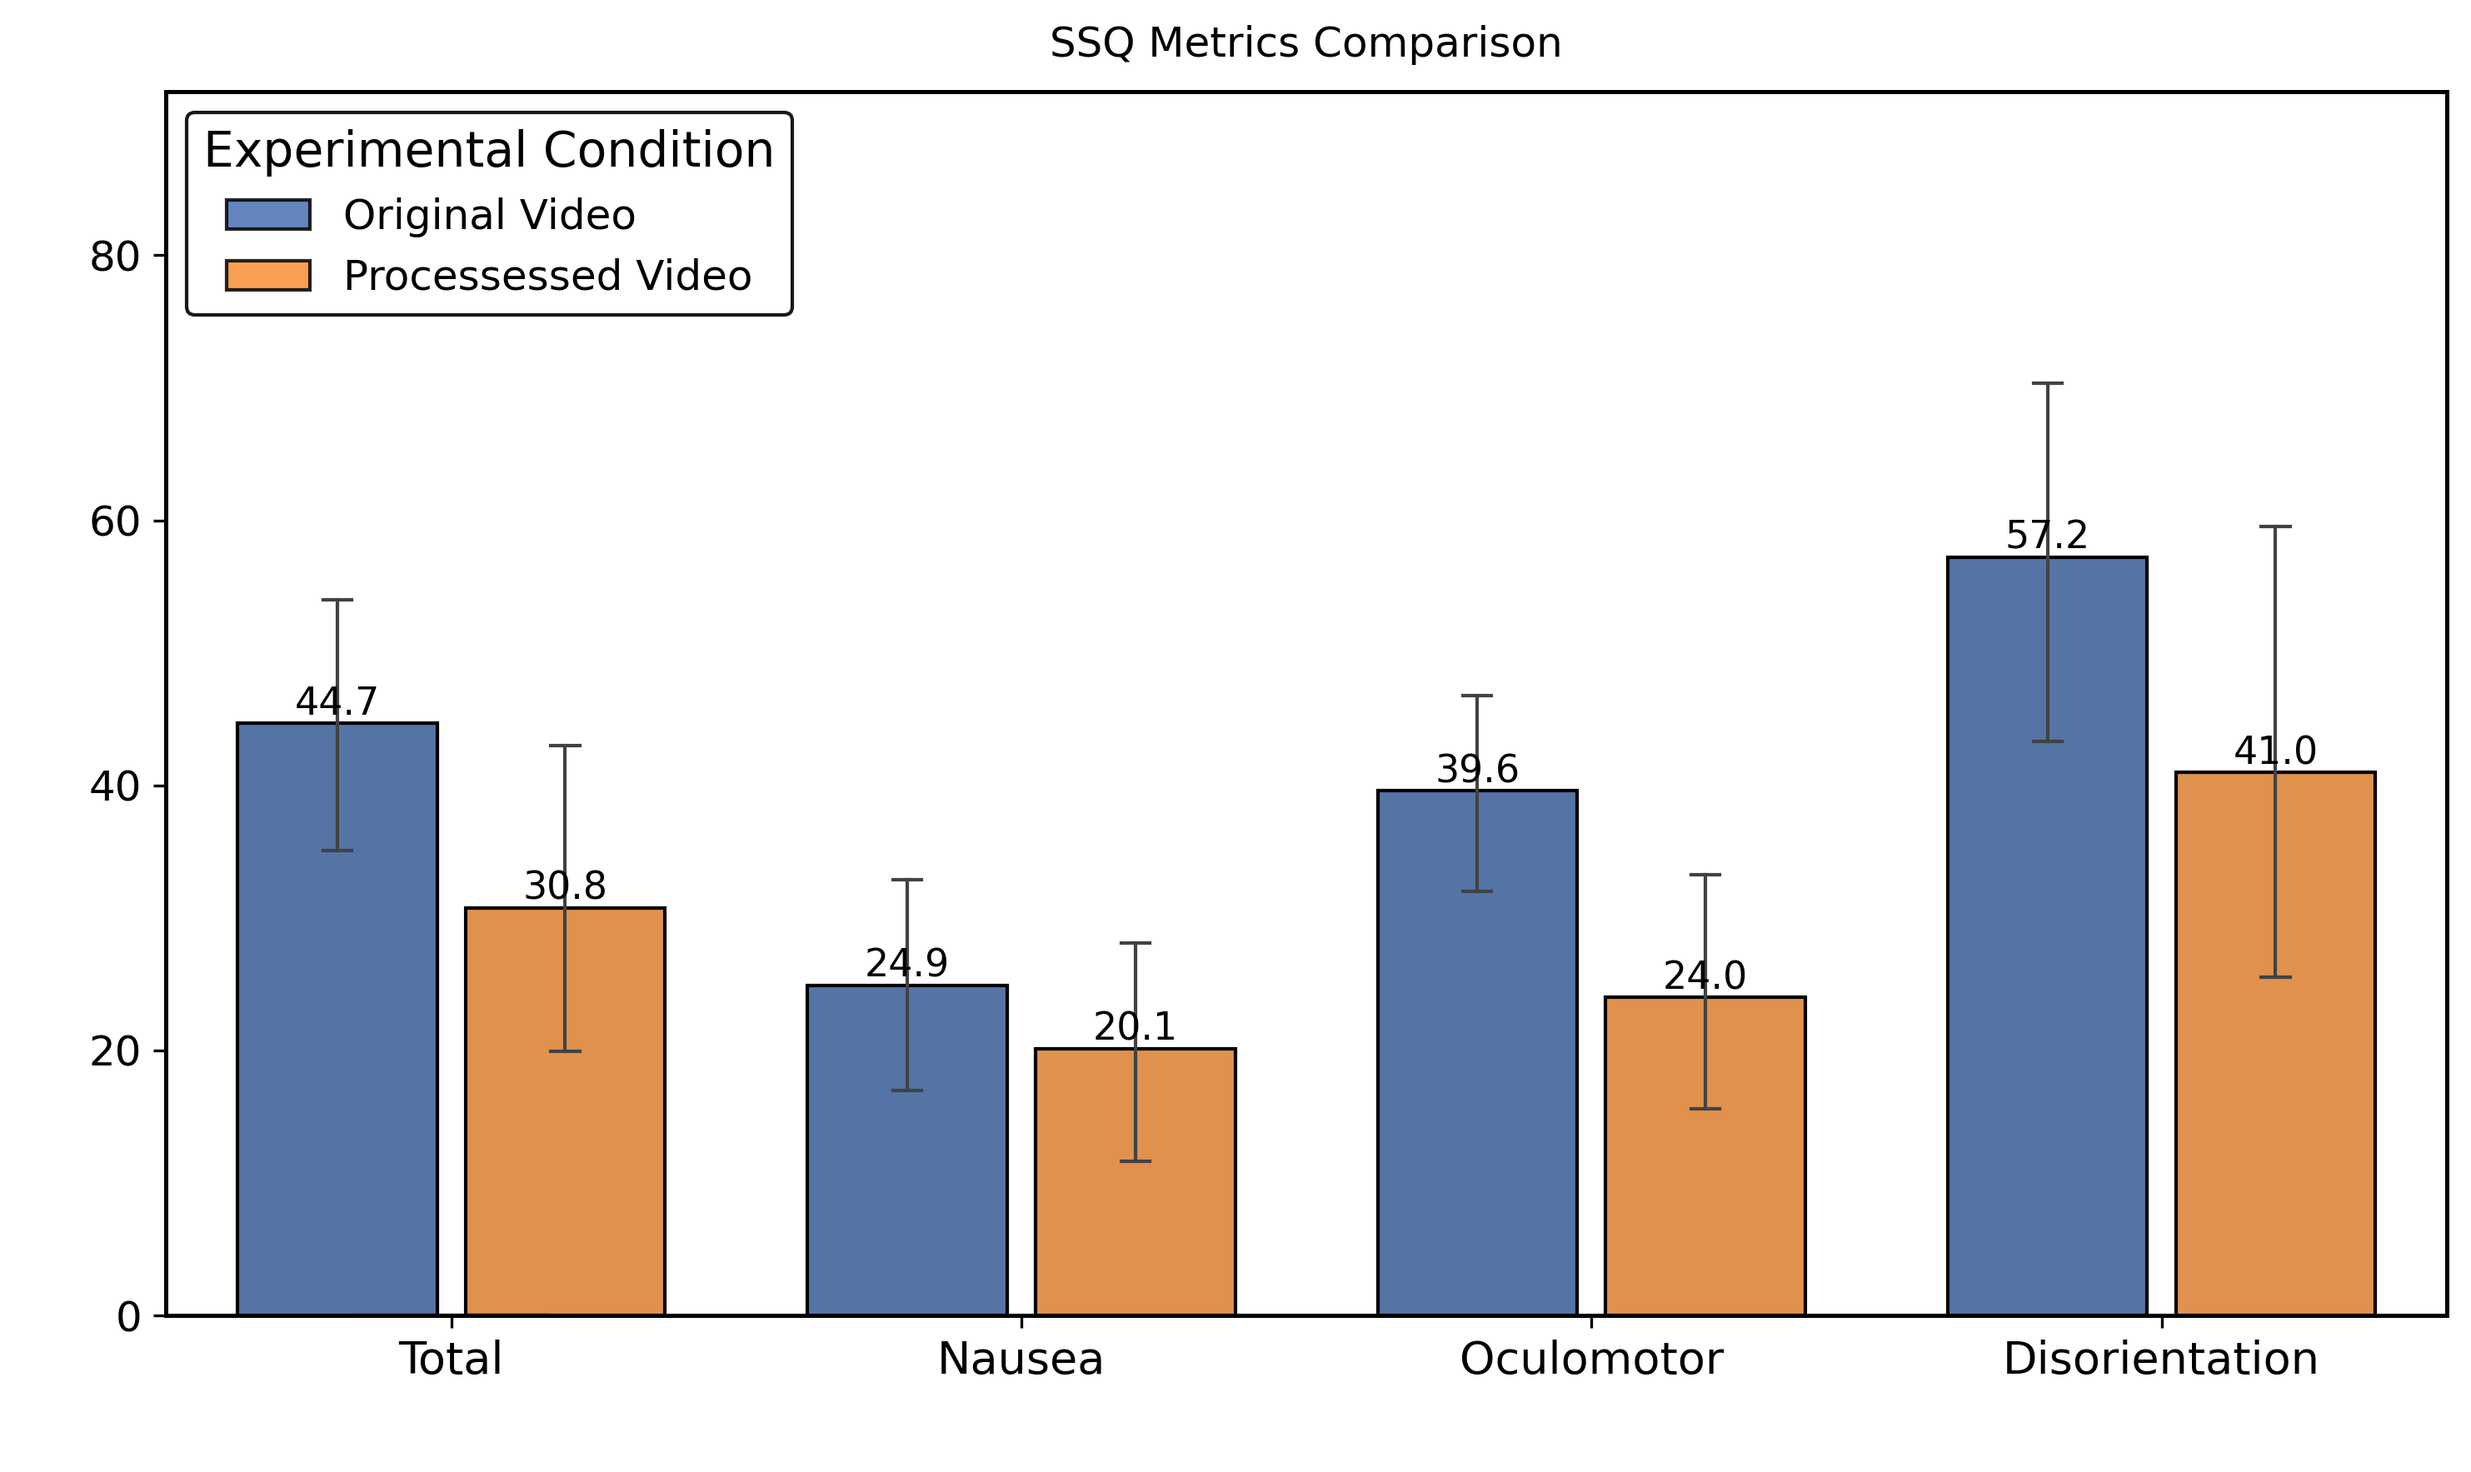
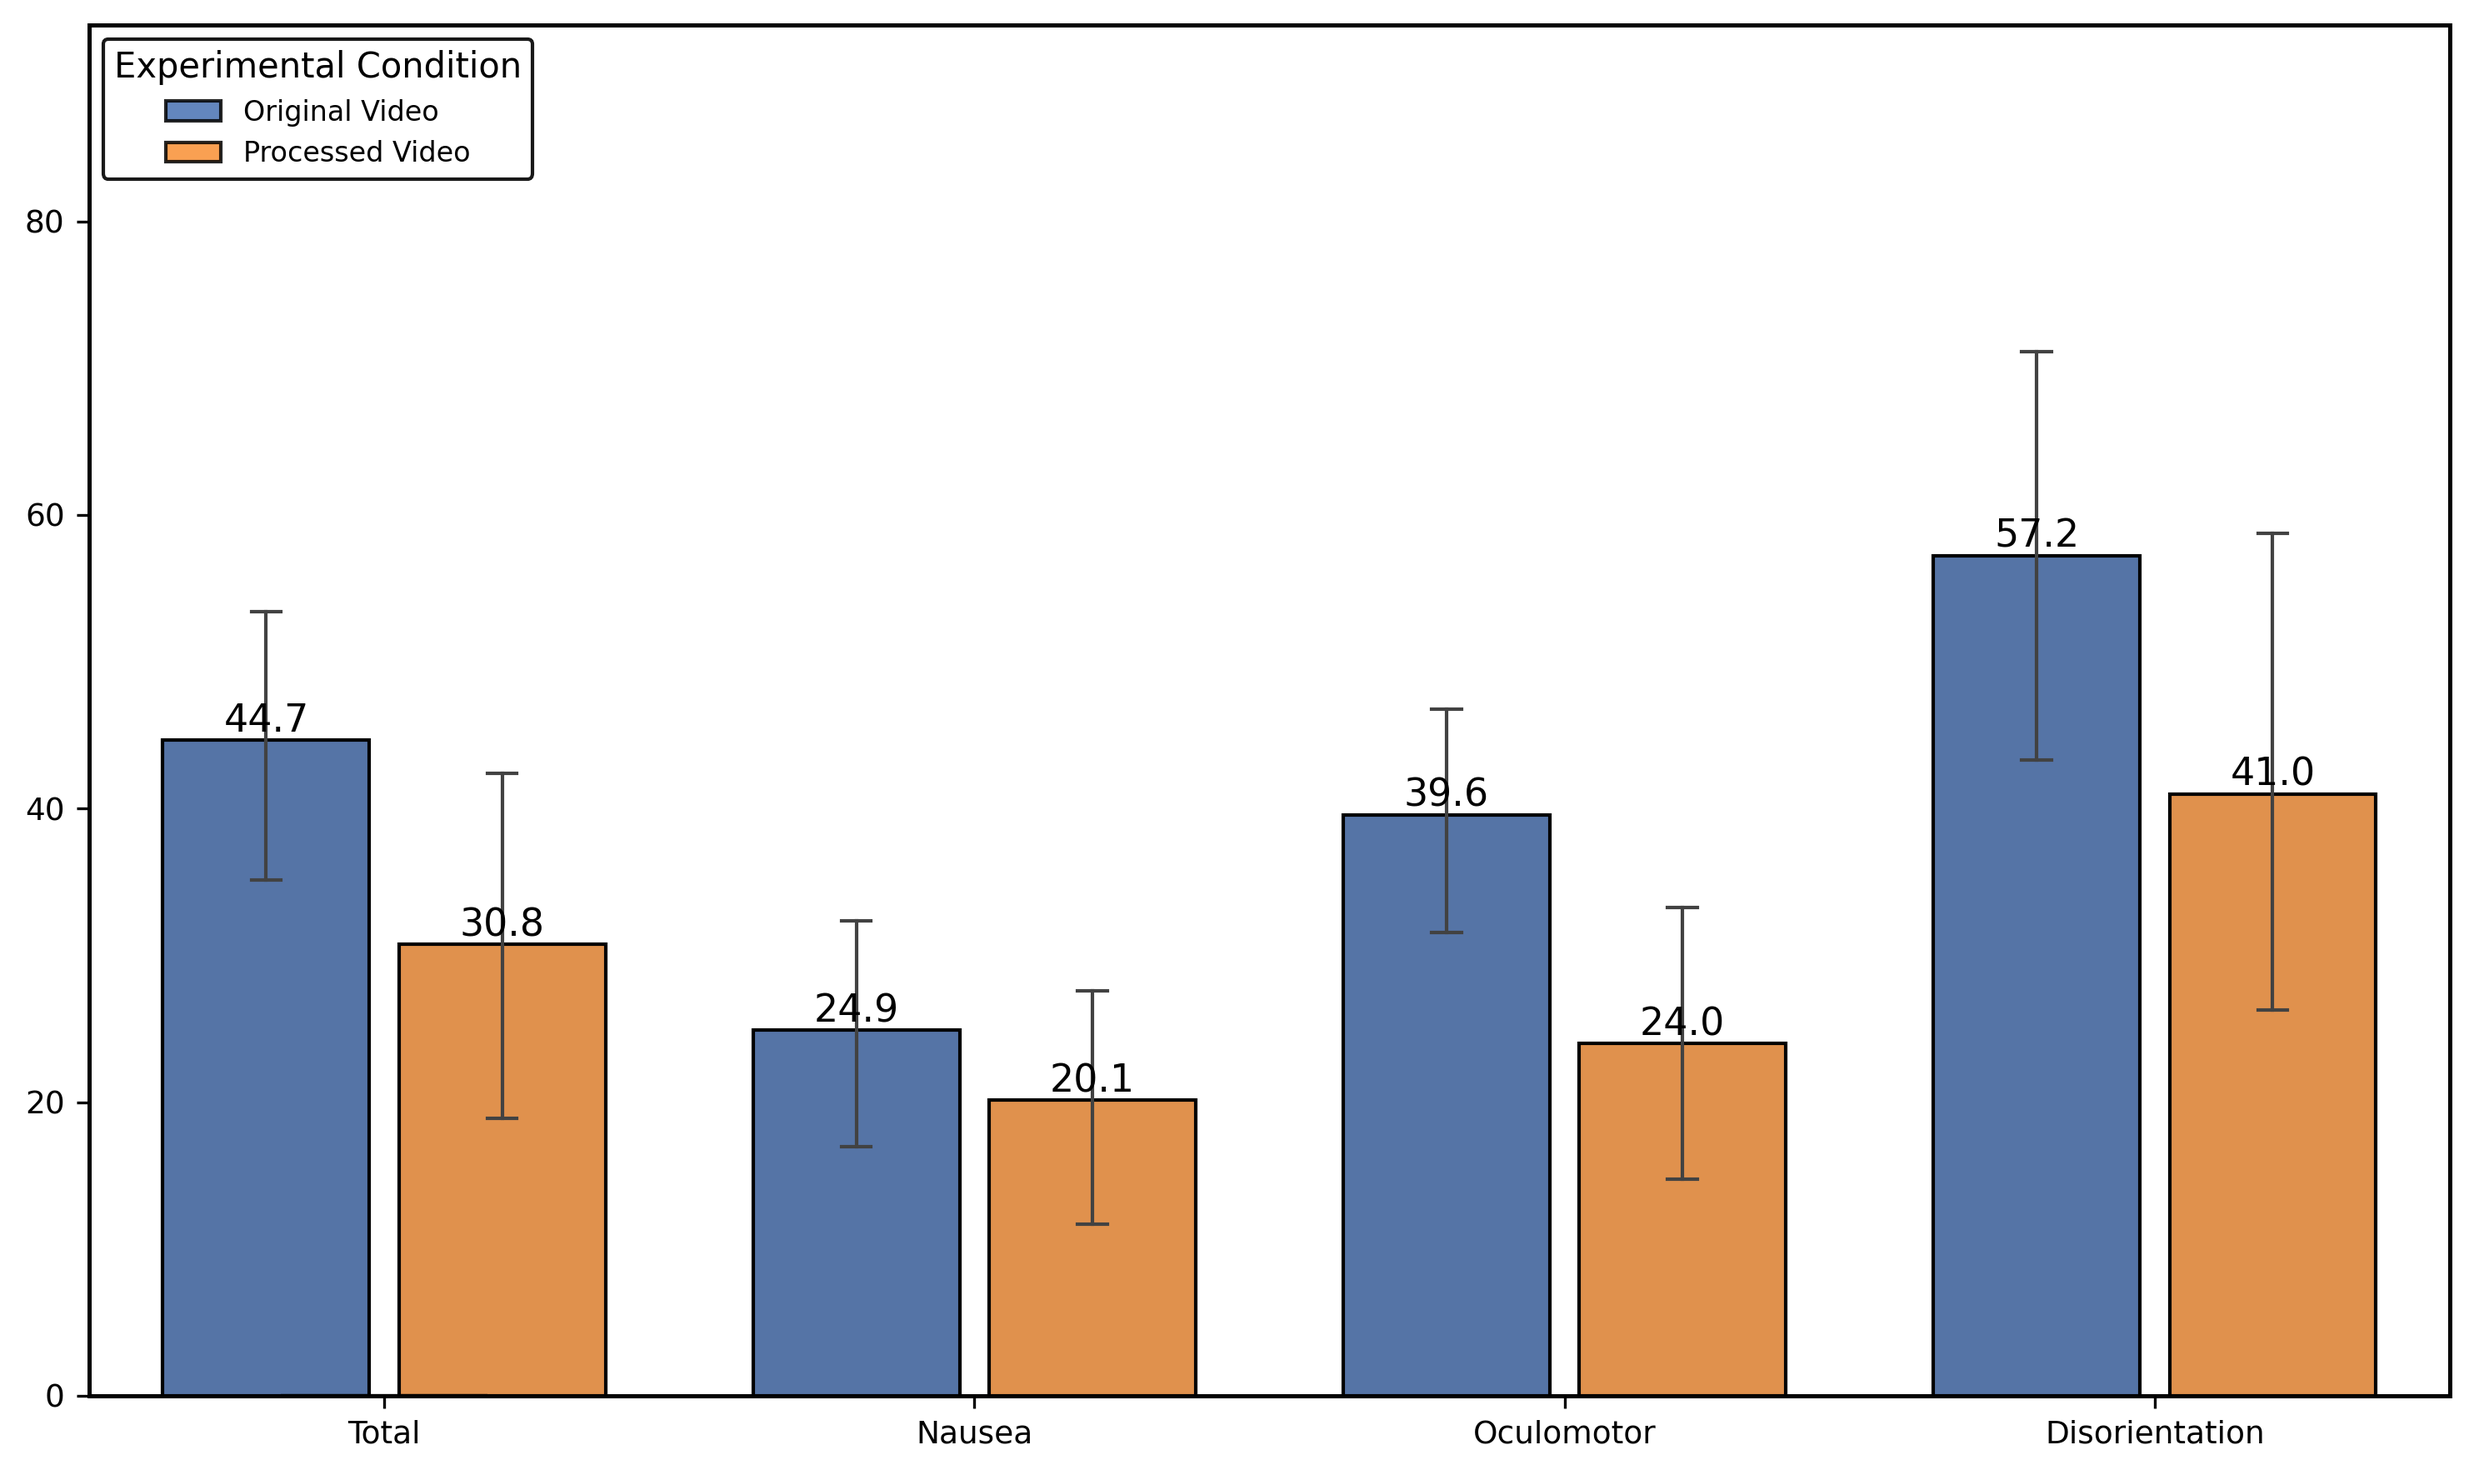
update

diff --git a/figure.py b/figure.py
@@ -85,7 +85,7 @@ for i, bar in enumerate(bars):
 # 自定义图例名称
 condition_labels = {
     'Pre': 'Original Video',
-    'Post': 'Processessed Video'
+    'Post': 'Processed Video'
 }
 
 # 创建自定义图例
@@ -97,17 +97,17 @@ legend_elements = [
 # 添加自定义图例 - 调整位置和大小
 ax.legend(handles=legend_elements, 
           loc='upper left',           # 位置：左上角
-          fontsize=12,                # 图例文本大小
+          fontsize=8,                # 图例文本大小
           frameon=True,               # 图例框
           framealpha=0.9,             # 框的透明度
           edgecolor='black',          # 框边缘颜色
           fancybox=True,              # 圆角图例框
           title='Experimental Condition',  # 图例标题
-          title_fontsize=14           # 标题字体大小
+          title_fontsize=10           # 标题字体大小
          )
 
 # 添加标题和标签
-plt.title("SSQ Metrics Comparison", fontsize=12, color='black', pad=10)
+plt.title("", fontsize=12, color='black', pad=10)
 
 # 自定义x轴标签
 metric_labels = {
@@ -123,14 +123,14 @@ current_labels = [label.get_text() for label in ax.get_xticklabels()]
 
 # 替换为自定义标签
 new_labels = [metric_labels.get(label, label) for label in current_labels]
-ax.set_xticklabels(new_labels, fontsize=13, rotation=0)
+ax.set_xticklabels(new_labels, fontsize=9, rotation=0)
 
 # 自定义y轴标签
-ax.set_ylabel("Symptom Severity Score", fontsize=15, color='white')
-ax.set_xlabel("Assessment Metrics", fontsize=15, color='white')
+ax.set_ylabel("", fontsize=12, color='white')
+ax.set_xlabel("", fontsize=12, color='white')
 
 # 自定义y轴刻度
-ax.tick_params(axis='y', labelsize=12)
+ax.tick_params(axis='y', labelsize=9)
 
 # 调整y轴范围以适应显著性标记
 ylim = plt.ylim()
